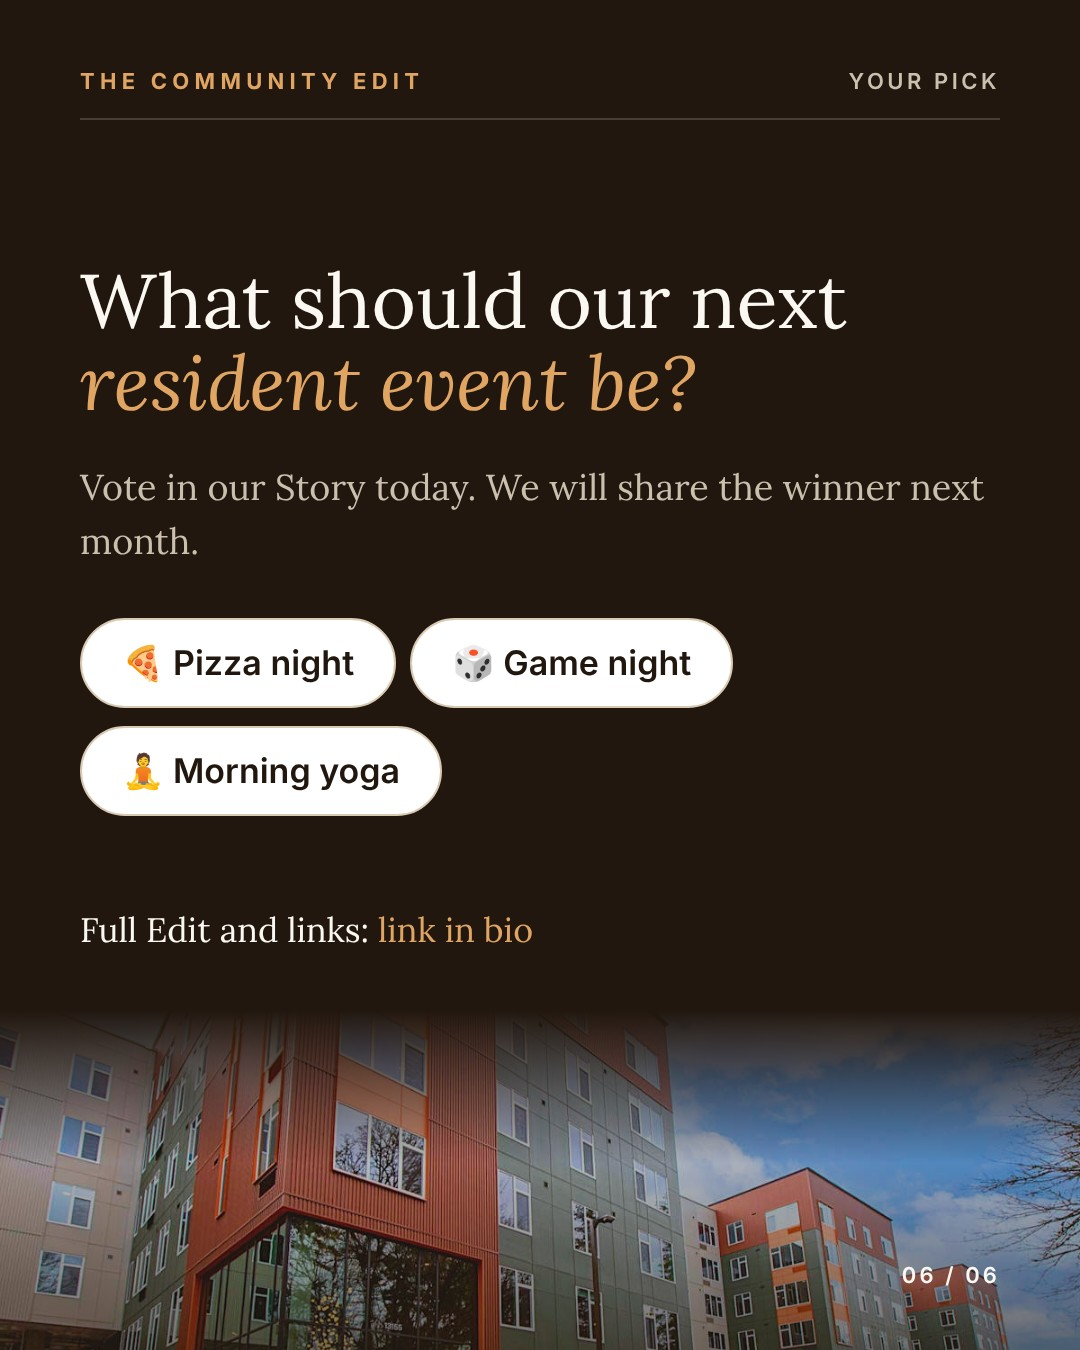
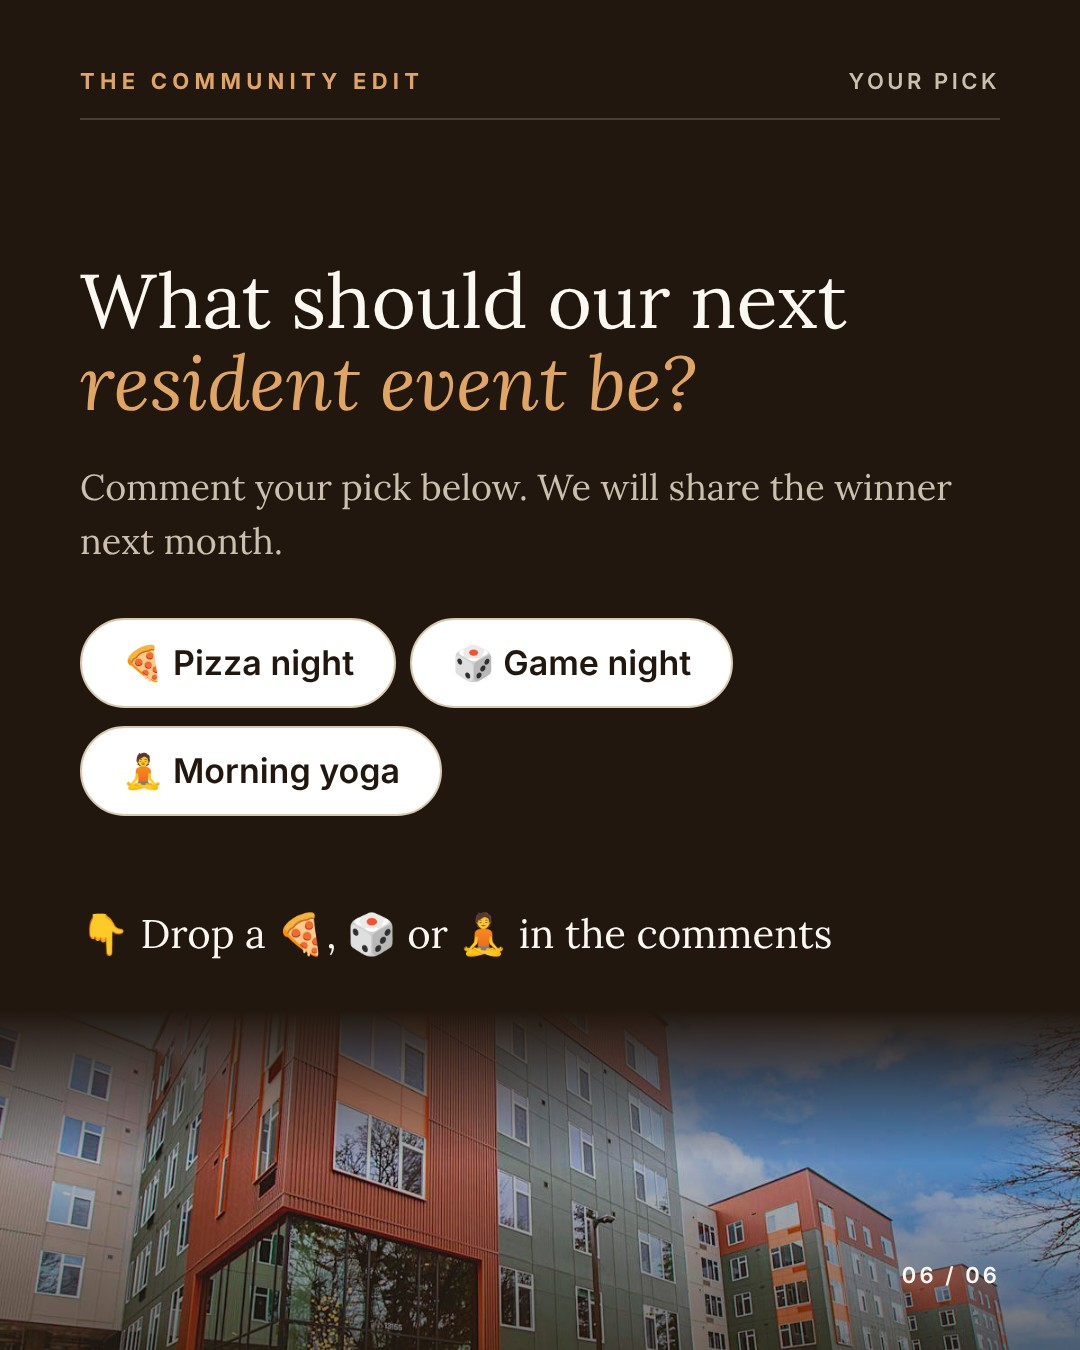
Edit carousel: comment poll, no link in bio
Claude-Session: https://claude.ai/code/session_01APSB1g7eTdNUzTFdVuU3QL

Changed region(s): [[0.0611, 0.3422, 0.9167, 0.4356], [0.0611, 0.6533, 0.7639, 0.7156]]

diff --git a/live/montage-r8x2/edit/carousel/source.html b/live/montage-r8x2/edit/carousel/source.html
@@ -75,8 +75,8 @@ p{font-size:36px;line-height:1.5;color:#4a3f35}
 <div style="position:absolute;left:80px;right:80px;top:70px;padding-bottom:26px;border-bottom:2px solid #4a3f35;display:flex;justify-content:space-between"><span class="k" style="color:#e0a463">The Community Edit</span><span class="m" style="color:#cbbfae">Your pick</span></div>
 <div style="position:absolute;left:80px;right:80px;top:260px">
 <h2 style="color:#fbf8f2">What should our next<br><i style="color:#e0a463">resident event be?</i></h2>
-<p style="margin:36px 0 50px;color:#cbbfae">Vote in our Story today. We will share the winner next month.</p>
+<p style="margin:36px 0 50px;color:#cbbfae">Comment your pick below. We will share the winner next month.</p>
 <span class="pill">🍕 Pizza night</span><span class="pill">🎲 Game night</span><br><span class="pill">🧘 Morning yoga</span>
-<p style="margin-top:70px;color:#fbf8f2;font-size:34px">Full Edit and links: <b style="color:#e0a463;font-weight:400">link in bio</b></p></div>
+<p style="margin-top:70px;color:#fbf8f2;font-size:40px">👇 Drop a 🍕, 🎲 or 🧘 in the comments</p></div>
 <img class="ph" src="file:///home/claude/repo/live/montage-r8x2/edit/img/outside-wide.jpg" style="top:1010px;height:340px;opacity:.9"><div style="position:absolute;left:0;right:0;top:1010px;height:340px;background:linear-gradient(180deg,#21170f,rgba(33,23,15,.2) 45%,rgba(33,23,15,.55))"></div><div class="pg" style="color:#fbf8f2">06 / 06</div></div>
 </body></html>
